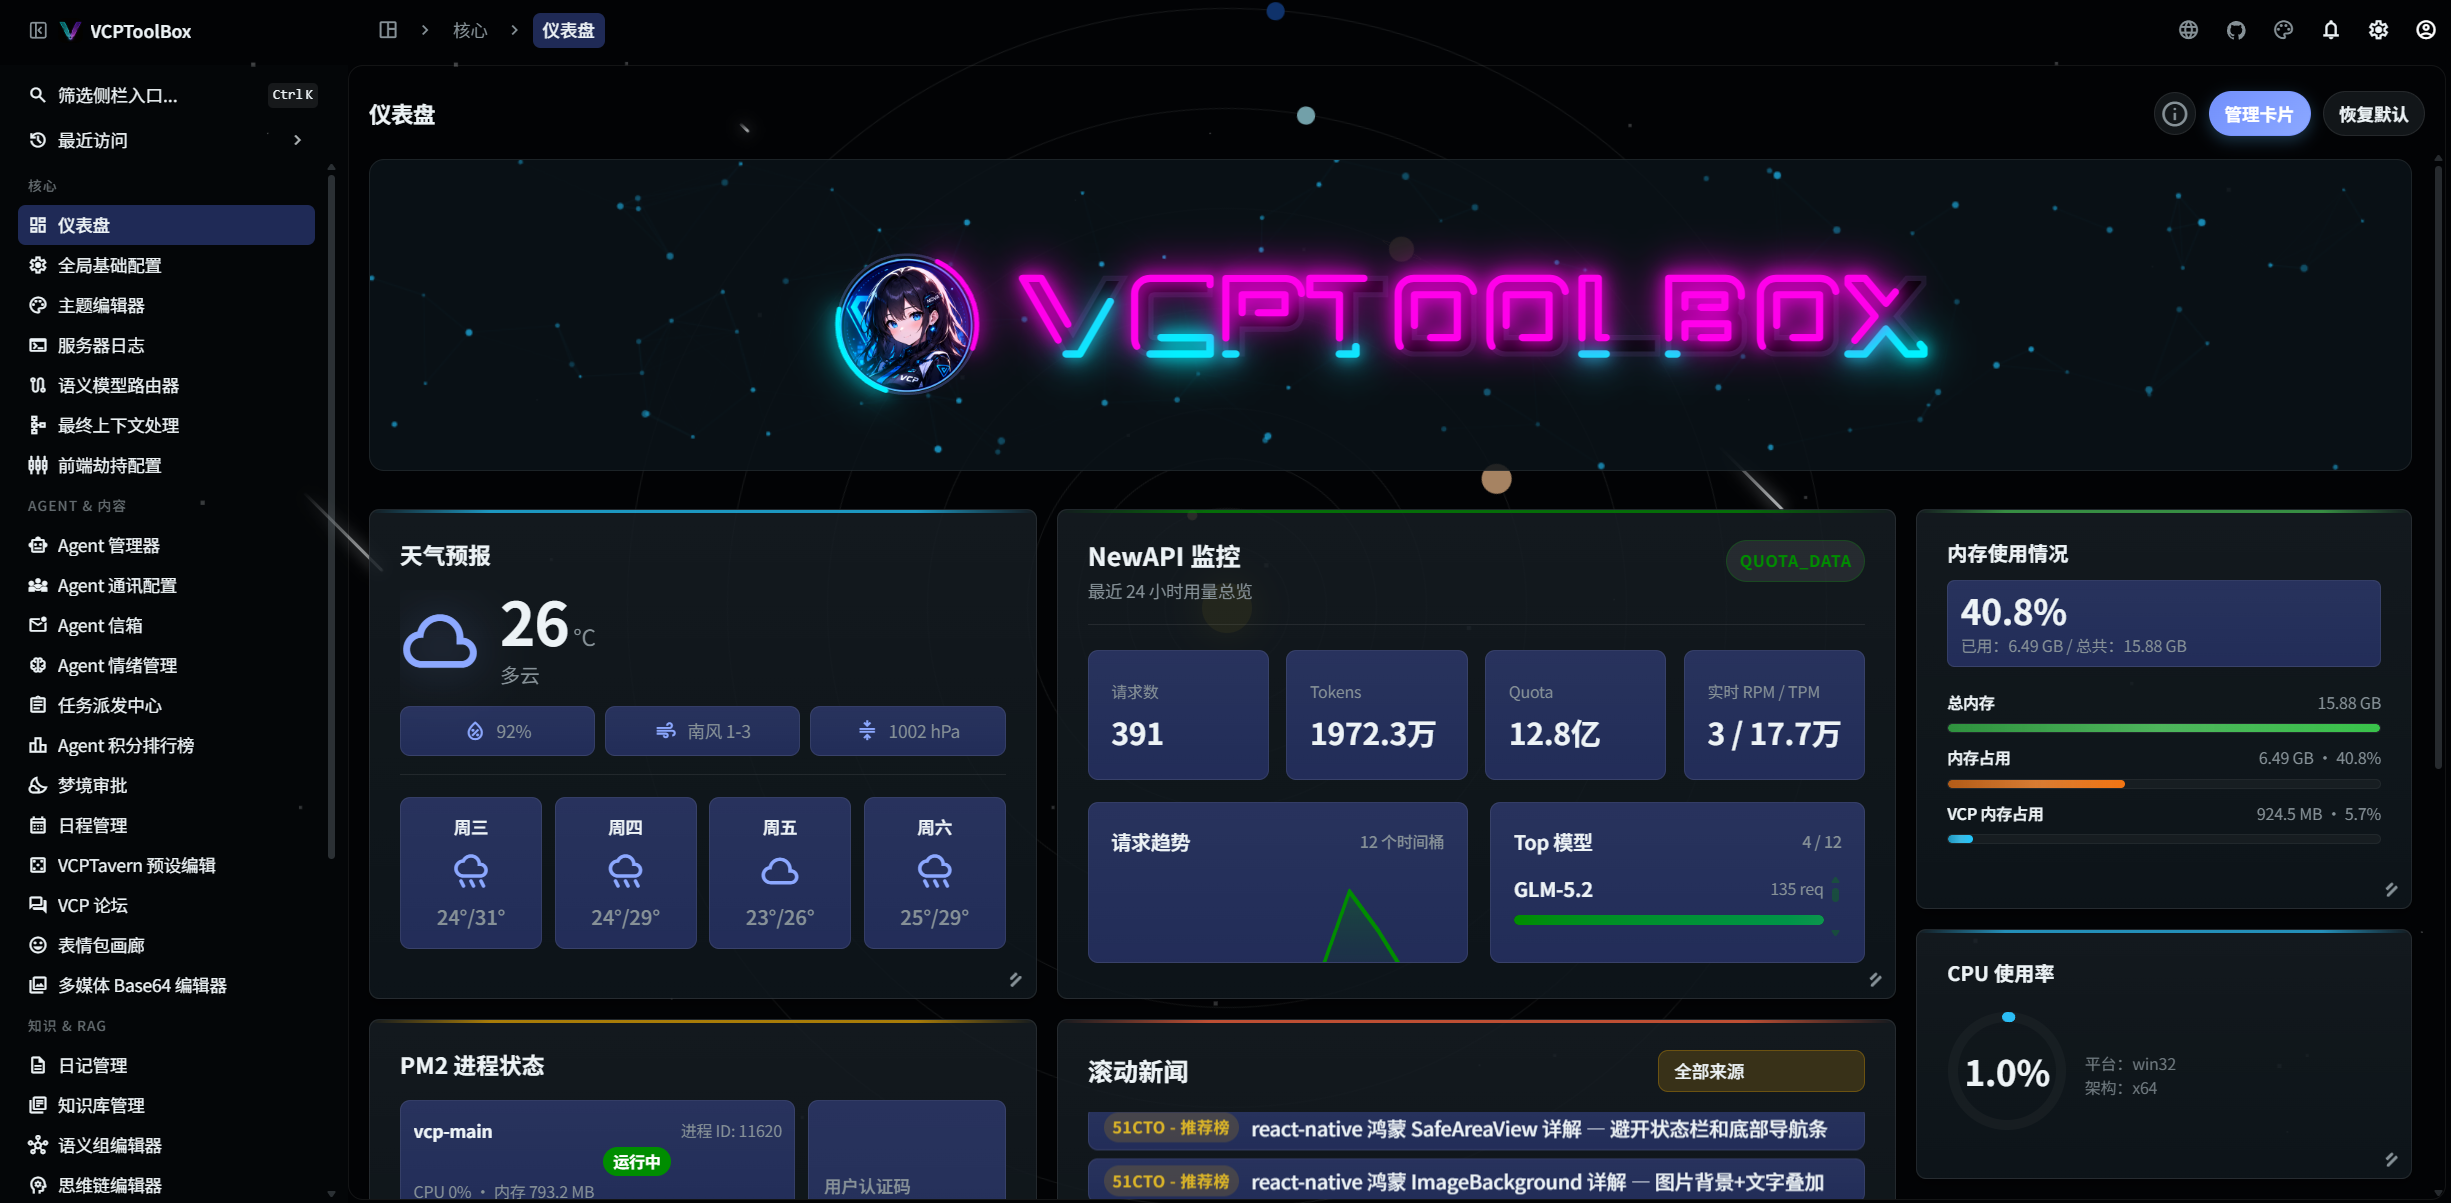
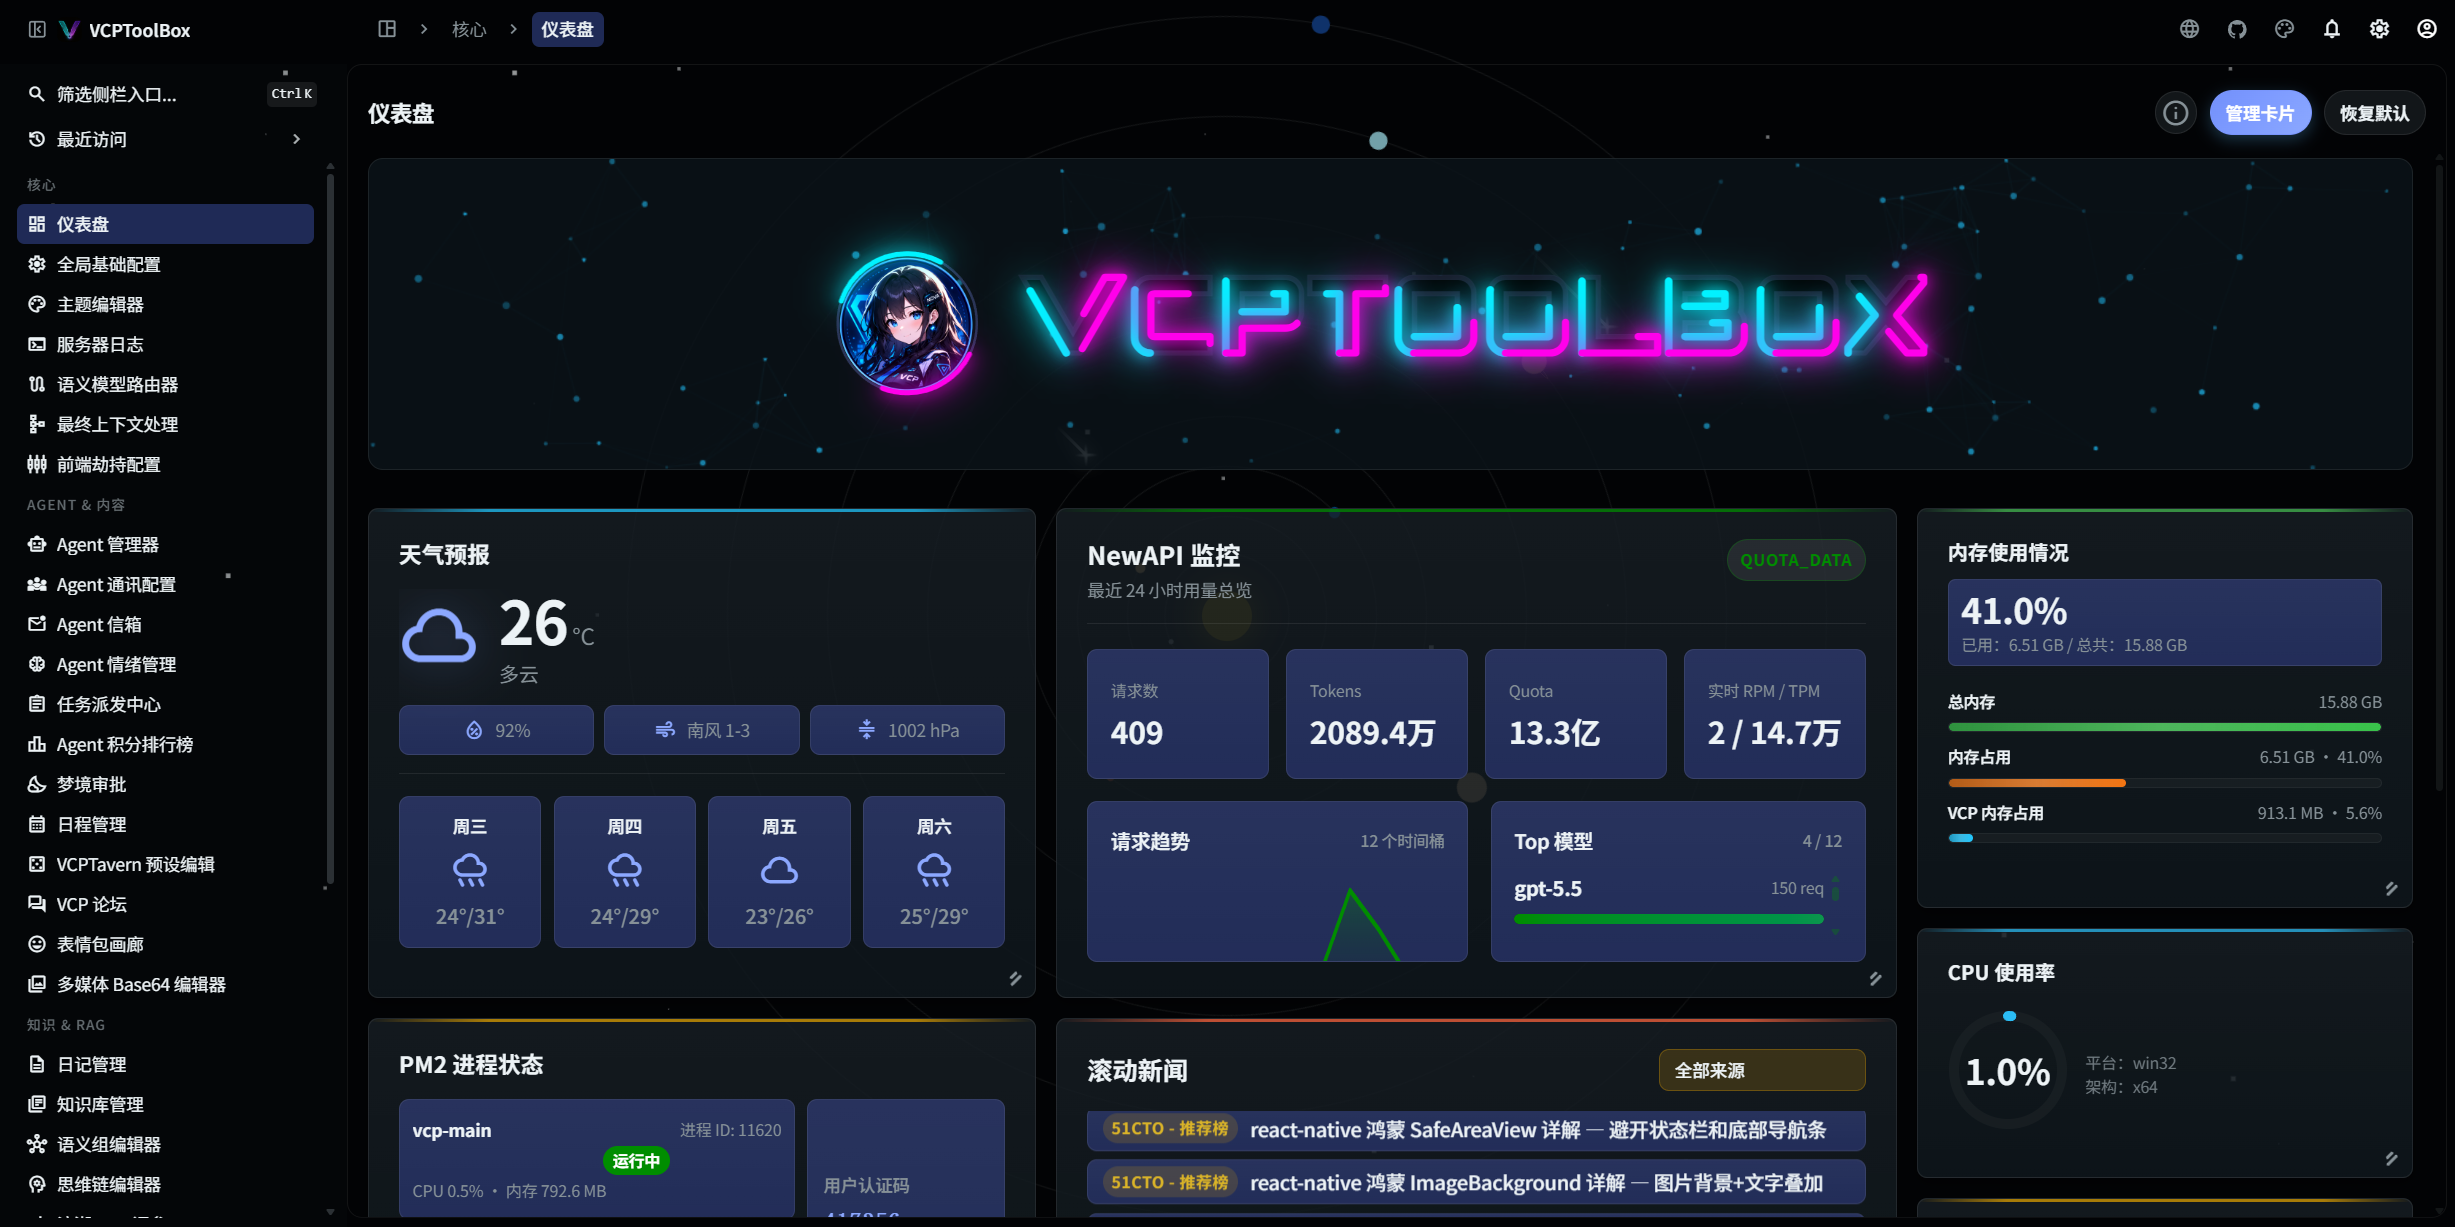
细节优化

diff --git a/AdminPanel-Vue/src/components/dashboard/VcpAnimation.vue b/AdminPanel-Vue/src/components/dashboard/VcpAnimation.vue
@@ -1,5 +1,5 @@
 <template>
-  <div class="vcp-animation-container">
+  <div class="vcp-animation-container" :class="`theme-${theme}`">
     <div class="vcp-logo-container">
       <button
         ref="novaLogoButtonRef"
@@ -756,6 +756,20 @@ onUnmounted(() => {
 .vcp-cyber-logo:hover .vcp-cyber-text-base {
   fill: color-mix(in srgb, var(--primary-bg) 74%, #111122);
   stroke: color-mix(in srgb, var(--highlight-text) 32%, #1a1a2e);
+}
+
+.theme-light .nova-ring-base {
+  stroke: color-mix(in srgb, #ffffff 86%, #94a3b8);
+}
+
+.theme-light .vcp-cyber-text-base {
+  fill: color-mix(in srgb, #ffffff 82%, #e2e8f0);
+  stroke: color-mix(in srgb, #ffffff 76%, #94a3b8);
+}
+
+.theme-light .vcp-cyber-logo:hover .vcp-cyber-text-base {
+  fill: color-mix(in srgb, #ffffff 72%, #dbeafe);
+  stroke: color-mix(in srgb, #ffffff 64%, var(--highlight-text));
 }
 
 .nova-maid-bubble {